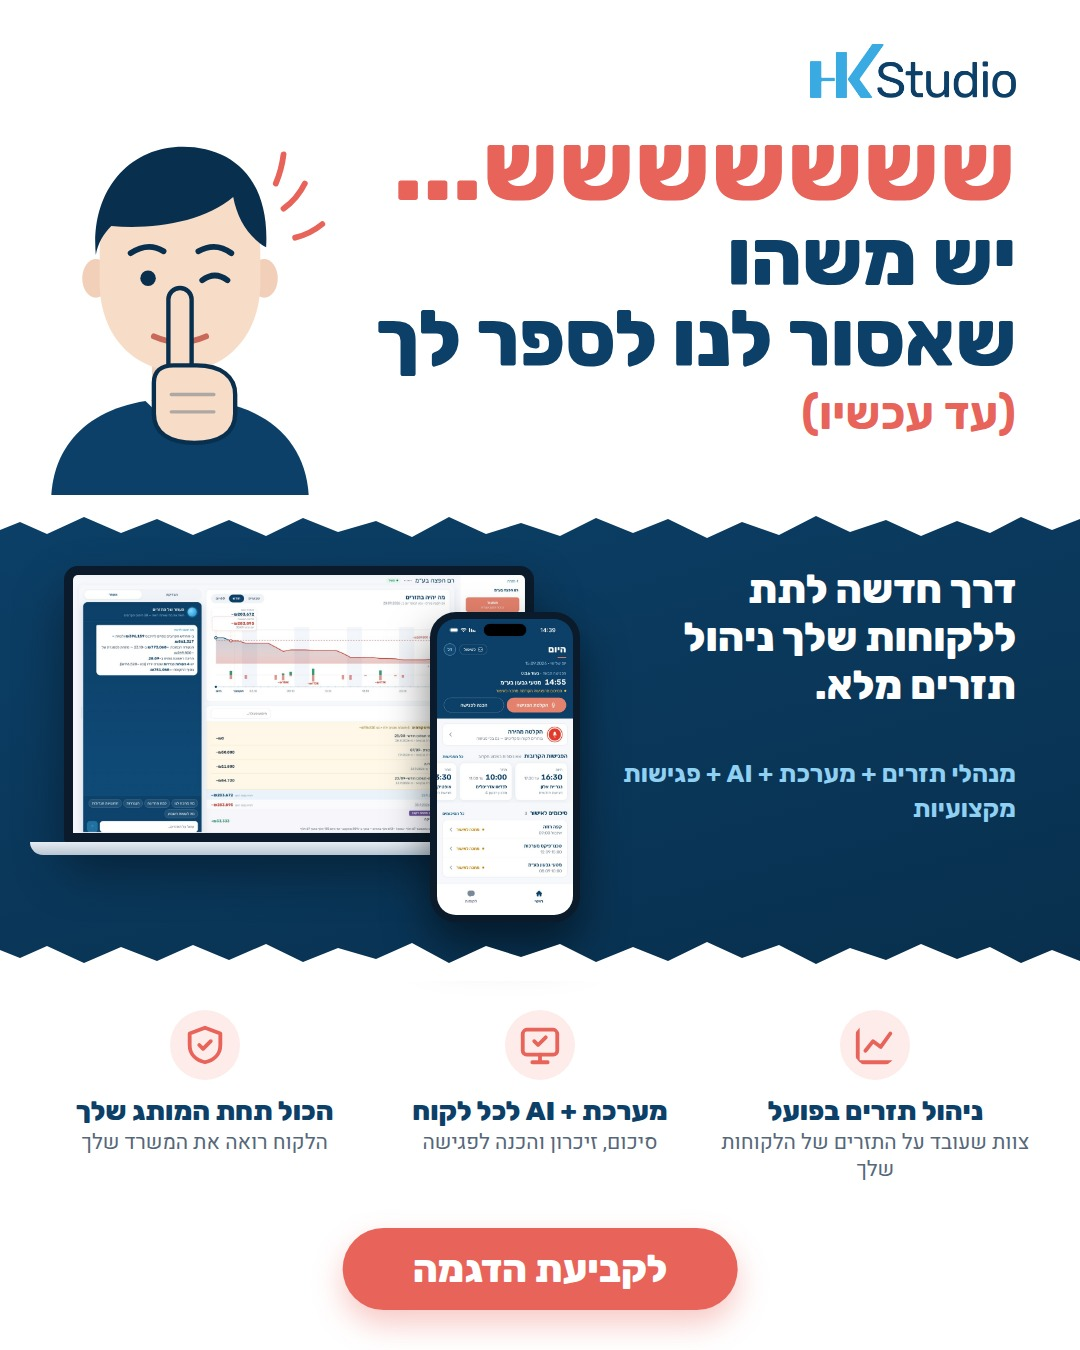
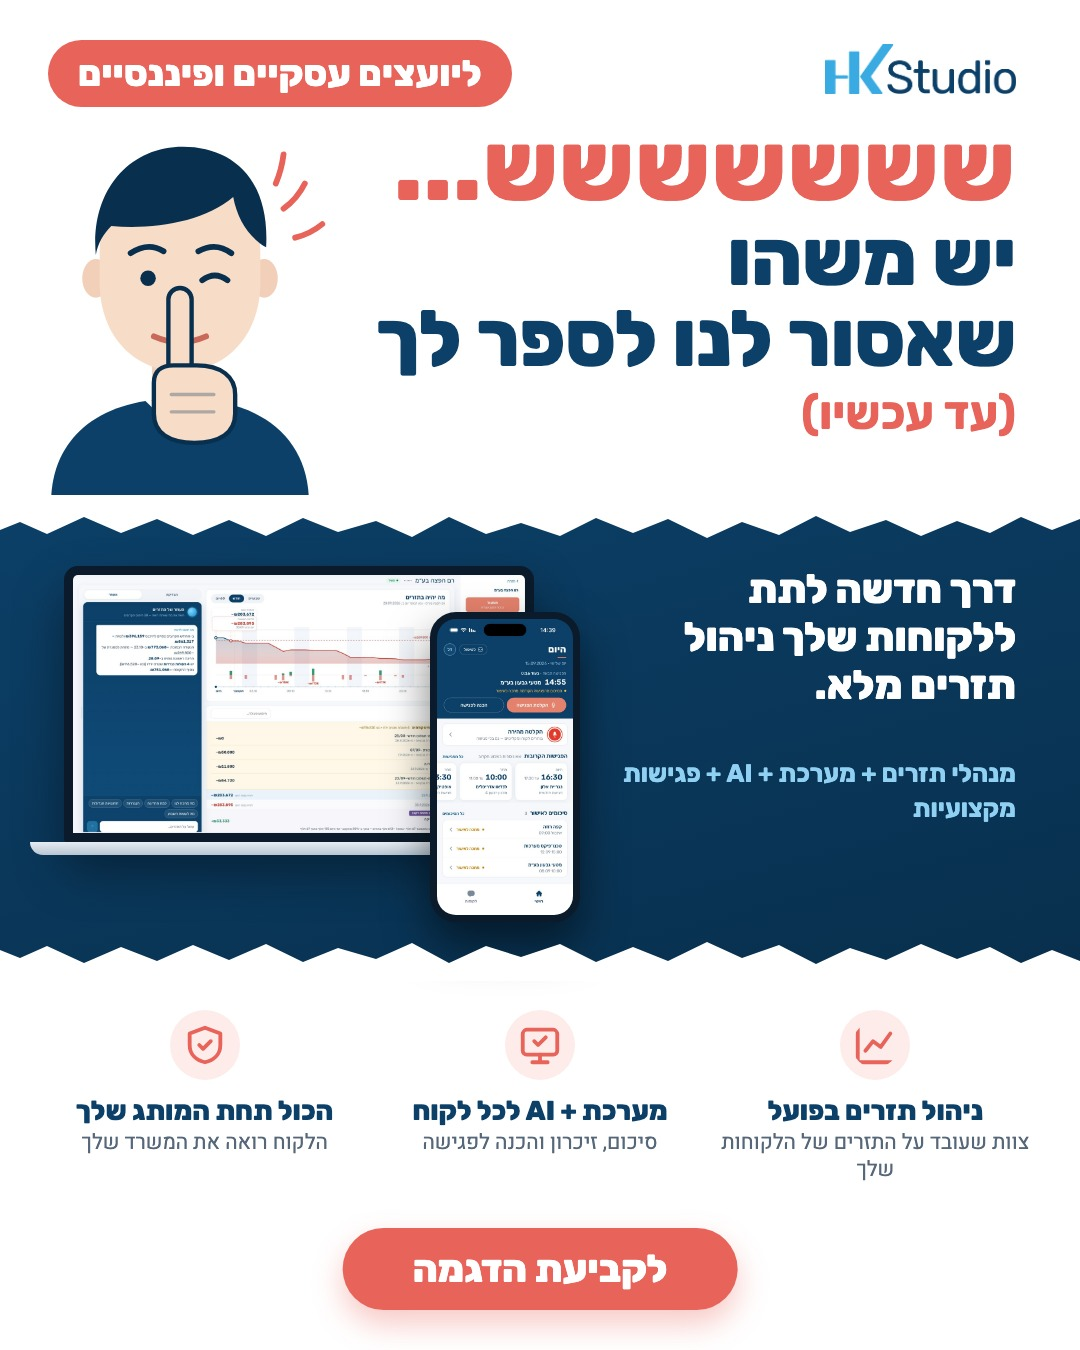
studio: שורת קהל "ליועצים עסקיים ופיננסיים" בראש המודעות (SA5 + SA4B חדשה) — אייל 15.10; pending

diff --git a/template/post.html b/template/post.html
@@ -130,6 +130,15 @@
   .ss-feat b { display: block; font-family: 'Rubik', sans-serif; font-weight: 800; font-size: 27px; margin: 8px 0 2px; color: var(--navy); }
   .ss-feat span { font-size: 21px; color: var(--muted); line-height: 1.3; display: block; }
   .ss-cta { position: absolute; bottom: 40px; left: 50%; transform: translateX(-50%); background: #E8635A; color: #fff; font-family: 'Rubik', sans-serif; font-weight: 800; font-size: 38px; padding: 18px 70px; border-radius: 60px; box-shadow: 0 14px 30px rgba(232,99,90,.35); white-space: nowrap; }
+  /* קהל היעד — שורה בולטת למעלה בקריאייטיבים של הסטודיו (אייל 15.10: "אף מודעה לא מבינים שזה של יועץ עסקי") */
+  .aud { display: inline-block; background: #E8635A; color: #fff; font-family: 'Rubik', sans-serif; font-weight: 800; font-size: 36px; padding: 12px 30px; border-radius: 50px; letter-spacing: .01em; white-space: nowrap; }
+  .aud b { color: #8fd0f3; font-weight: 800; }
+  .l-studio-mock .aud { margin-bottom: 26px; }
+  .l-studio-mock .sm-logo { height: 54px; margin-bottom: 22px; }
+  .l-studio-mock .main:has(.aud) .sm-mock { width: 700px; margin-top: 24px; }
+  .l-studio-mock .main:has(.aud) .sm-ben { margin-top: 26px; margin-bottom: 30px; }
+  .l-studio-secret .aud { position: absolute; top: 40px; left: 48px; }
+  .l-studio-secret .ss-logo { height: 50px; }
 </style>
 </head>
 <body>
@@ -171,7 +180,7 @@
     const ic = { keep: '<path d="M16 21v-2a4 4 0 0 0-4-4H6a4 4 0 0 0-4 4v2"/><circle cx="9" cy="7" r="4"/><path d="m16 11 2 2 4-4"/>',
                  full: '<path d="M12 2 2 7l10 5 10-5-10-5z"/><path d="m2 17 10 5 10-5"/><path d="m2 12 10 5 10-5"/>',
                  load: '<path d="M12 5v14"/><path d="m19 12-7 7-7-7"/>' };
-    main.innerHTML = '<img class="sm-logo" src="assets/studio-logo.png" alt="">' + h +
+    main.innerHTML = '<img class="sm-logo" src="assets/studio-logo.png" alt="">' + (P.aud ? `<div class="aud">${P.aud}</div>` : '') + h +
       (P.body ? `<div class="sm-sub">${P.body}</div>` : '') + (P.kicker ? `<div class="sm-line">${P.kicker}</div>` : '') +
       `<div class="sm-mock"><div class="sm-screen"><img src="${P.photo || 'assets/studio-timeline.jpg'}" alt=""></div><div class="sm-base"></div></div>` +
       '<div class="sm-ben">' + (P.steps || []).map(b => `<div><svg viewBox="0 0 24 24">${ic[b.text] || ic.full}</svg>${b.title}</div>`).join('') + '</div>' +
@@ -194,7 +203,7 @@
       '<path d="M146 296h44M146 314h44" stroke="#082f4d" stroke-width="3.5" opacity=".3"/>' +
       '<path d="M262 104q14-10 22-26M274 134q16-4 28-14M254 78q6-14 8-30" stroke="#E8635A" stroke-width="6"/></svg>';
     const t = (P.title || '').split('|');
-    main.innerHTML = '<img class="ss-logo" src="assets/studio-logo.png" alt="">' + fig +
+    main.innerHTML = '<img class="ss-logo" src="assets/studio-logo.png" alt="">' + (P.aud ? `<div class="aud">${P.aud}</div>` : '') + fig +
       `<div class="ss-head"><span class="sh">${P.kicker || ''}</span><span class="t">${t[0] || ''}</span><span class="t">${t[1] || ''}</span><span class="u">${t[2] || ''}</span></div>` +
       `<div class="ss-band">${tear.replace('TT','top')}<div class="ss-sub">${P.body || ''}</div><div class="ss-plus">${(P.left && P.left.title) || ''}</div>` +
       `<div class="ss-lap"><div class="scr"><img src="${P.photo || 'assets/studio-timeline.jpg'}" alt=""></div><div class="base"></div></div><div class="ss-ph"><img src="assets/studio-app-home.jpg" alt=""></div>${tear.replace('TT','bot')}</div>` +

diff --git a/scripts/render.py b/scripts/render.py
@@ -40,6 +40,8 @@ def safe_inline(text):
 
 def render(post, chrome):
     data = {k: v for k, v in post.items() if k in ("layout", "kicker", "body", "logo", "photo", "chat", "steps", "left", "right", "url", "kicker_size")}
+    if post.get("aud"):  # שורת קהל היעד בקריאייטיבים של הסטודיו — טקסט בלבד
+        data["aud"] = html.escape(post["aud"], quote=False)
     data["title"] = safe_inline(post.get("title", ""))
     data["cta"] = "" if "cta" in post and not str(post["cta"]).strip() else safe_inline(post.get("cta", "פגישת אבחון <span>חינם</span>"))
     data.setdefault("logo", "hk")
